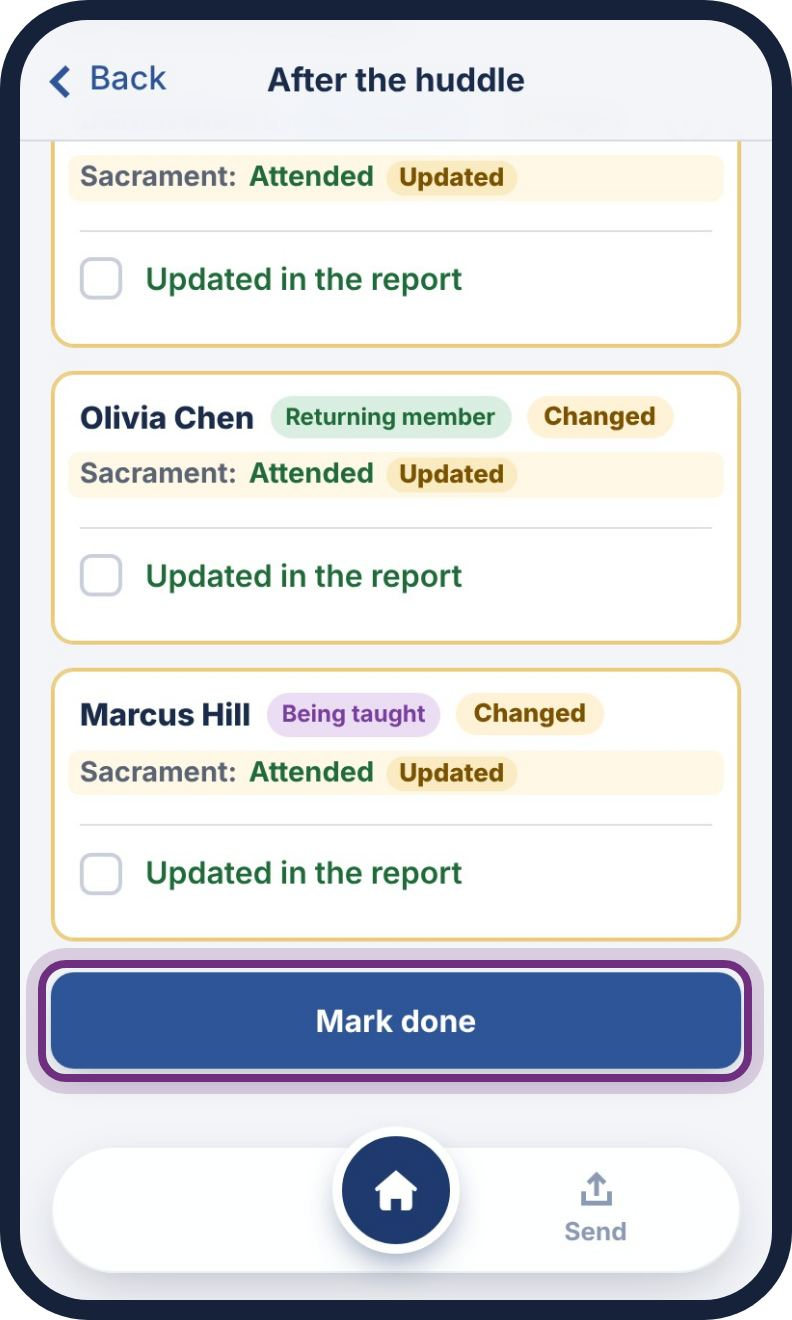
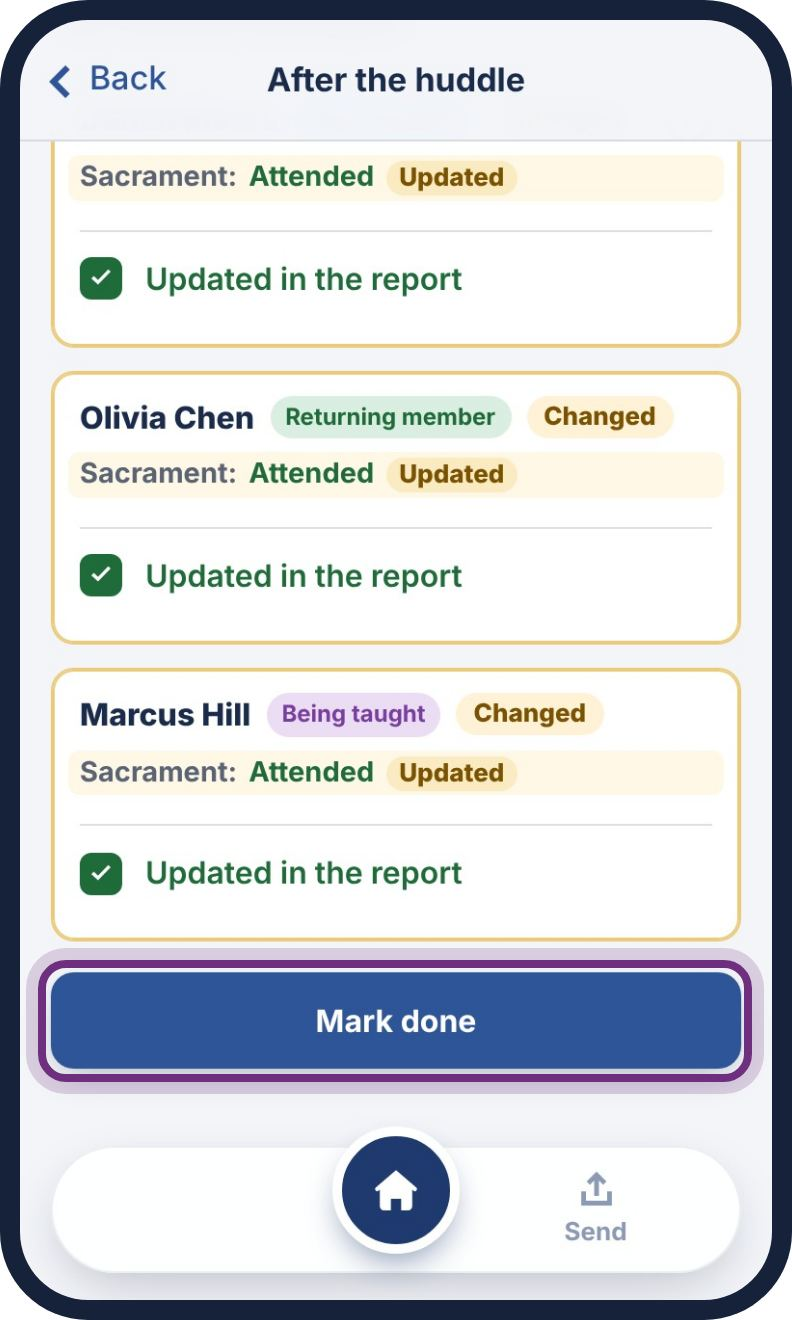
Tests follow the plainer week; slides remade
Claude-Session: https://claude.ai/code/session_01PW98YcMvh8WynmxGN9Y5LD

Changed region(s): [[0.0909, 0.6212, 0.1515, 0.6833], [0.0909, 0.4038, 0.1515, 0.4659], [0.0909, 0.1864, 0.1515, 0.2485]]

diff --git a/test/twodoor.js b/test/twodoor.js
@@ -31,23 +31,23 @@ const OUT = 'test/out-twodoor'; fs.mkdirSync(OUT, { recursive: true });
     ok(!(await vis('#steps-home')) && !(await vis('#details-summary')) && !(await vis('.info-pair')), tag + ': no date, sections or details on the opening screen');
     ok(await vis('[data-action="help"]') && !(await vis('[data-action="load-other"]')) && !(await vis('.clear-link')) && !(await vis('[data-action="tips"]')) && (await p.textContent('.top-buttons .help-link')).trim() === 'Help & training', tag + ': Help & training is at the top; Load and Erase are inside it (Settings); Tips is not');
     ok(await noOverflow(), tag + ': opening screen fits the phone');
-    ok(await vis('#before-box') && await vis('#after-box') && (await p.textContent('h1')).trim() === 'One by One' && (await p.textContent('.title-sub')).trim() === '“Joyfully gathering Israel one by one in Christ”', tag + ': title is Weekly Ward Mission Process, with the two Covenant Path Report boxes');
+    ok(await vis('#before-box') && await vis('#after-box') && (await p.textContent('h1')).trim() === 'Huddle' && /One by One · “Joyfully gathering Israel one by one in Christ”/.test((await p.textContent('.title-sub')).trim()), tag + ': titled Huddle, with the vision as a small line, and the two Covenant Path Report boxes');
     ok((await p.textContent('.app-name')).trim() === 'Huddle' && await p.title() === 'Huddle', tag + ': the app is named Huddle, on the page and in the browser');
     ok(await p.locator('#start-home input[type="checkbox"]').count() === 0 && await p.evaluate(() => ['before', 'after'].every(w => document.querySelector('#' + w + '-box').tagName === 'BUTTON')) && !(await vis('#before-box .tl-check')), tag + ': the two boxes have no check box to tap; each is one button');
     ok((await p.textContent('.fine-notes')).trim() === 'Not an official app of The Church of Jesus Christ of Latter-day Saints.' && !(await vis('.fine-notes .credit-name')), tag + ': the opening screen ends with the one disclaimer line');
     // Hand off holds both ends of a handoff; the quiet link under the steps is for a PDF only
-    await p.click('.actionbar [data-action="handoff"]'); await p.waitForSelector('#handoff-sheet:not([hidden])');
+    await p.click('.handoff-line [data-action="handoff"]'); await p.waitForSelector('#handoff-sheet:not([hidden])');
     ok(await p.locator('#handoff-sheet .nav-row').count() === 2 && (await p.textContent('#handoff-send')).includes('Send a handoff') && (await p.textContent('#handoff-receive')).includes('Receive a handoff') && await noOverflow(), tag + ': Hand off offers Send a handoff and Receive a handoff');
     await p.click('[data-action="close-handoff"]'); await p.waitForTimeout(200);
     ok(await p.isHidden('#handoff-sheet'), tag + ': Cancel closes it');
     await p.click('[data-action="help"]'); await p.waitForSelector('#help-sheet:not([hidden])'); await p.waitForTimeout(250);
-    ok((await p.$$eval('#help-sheet .help-list >> nth=3 >> .step-title', t => t.map(x => x.textContent).join('|'))) === 'Appearance|Load from a PDF|Erase everything and start over' && await noOverflow(), tag + ': Settings offers Appearance, Load from a PDF and Erase everything');
+    ok((await p.$$eval('#help-sheet .help-list >> nth=3 >> .step-title', t => t.map(x => x.textContent).join('|'))) === 'Appearance|Load a huddle report|Erase everything and start over' && await noOverflow(), tag + ': Settings offers Appearance, Load a huddle report and Erase everything');
     const [chooser] = await Promise.all([p.waitForEvent('filechooser'), p.click('#help-sheet [data-action="load-other"]')]);
     ok(!!chooser && await p.locator('.overlay:not([hidden])').count() === 0, tag + ': Load from a PDF goes straight to choosing the file');
     // Each of the four steps opens a page of its own (none slides up as a sheet), and each page starts with one line saying what to do there
-    const pages = [['#before-box', '#bw-view', '#bw-view .page-intro', 'Before ward council', 'Open the Covenant Path Report in Member Tools and make this list match it: add or remove names so everyone is listed, and check off each person’s items that are done there.'],
+    const pages = [['#before-box', '#bw-view', '#bw-view .page-intro', 'Before Ward Council', 'Open the Covenant Path Report in Member Tools and make this list match it: add or remove names so everyone is listed, and check off each person’s items that are done there.'],
       ['.door-wc', '#wc-view', '#wc-intro', 'Ward Council', 'Add any upcoming opportunities to invite. Then identify focus names from the Covenant Path Report, the Part-Member Families list, or anyone else ward council feels to focus on.'],
-      ['.door-hd', '#steps-home', '#hd-intro', 'Huddle', 'Report back on the last huddle and take attendance. Review the opportunities to invite and make at least one action plan, then plan one assignment for each focus name: what, who and when.'],
+      ['.door-hd', '#steps-home', '#hd-intro', 'Huddle', 'Report back on the last huddle and take attendance. Review the opportunities to invite and plan at least one assignment, then plan one assignment for each focus name: what, who and when.'],
       ['#after-box', '#af-view', '#af-view .page-intro', 'After the huddle', 'Go back to the Covenant Path Report and update it with any new information. Then mark this done so you can send.']];
     const introTops = [];
     for (const [door, pageSel, introSel, title, text] of pages) {
@@ -65,10 +65,10 @@ const OUT = 'test/out-twodoor'; fs.mkdirSync(OUT, { recursive: true });
     const bwOpen = async (g, i) => { await p.click(`#before-list [data-action="open-person"][data-a="${g}"][data-b="${i}"]`); await p.waitForSelector('#person-view:not([hidden])'); await p.waitForTimeout(250); };
     const bwDone = async () => { await p.click('#person-card .person-done'); await p.waitForSelector('#bw-view:not([hidden])'); await p.waitForTimeout(300); };
     const daysAgo = n => { const d = new Date(); d.setDate(d.getDate() - n); return d.getFullYear() + '-' + String(d.getMonth() + 1).padStart(2, '0') + '-' + String(d.getDate()).padStart(2, '0'); };
-    ok((await p.textContent('#before-box .check-line')).trim() === 'Before ward council' && (await p.textContent('#before-sub')).trim() === 'Update each person from the Covenant Path Report', tag + ': the Before ward council box says what it covers');
+    ok((await p.textContent('#before-box .check-line')).trim() === 'Before Ward Council' && (await p.textContent('#before-sub')).trim() === 'Update each person from the Covenant Path Report', tag + ': the Before ward council box says what it covers');
     // The four steps are numbered, and each leads with its name
     ok((await p.$$eval('#start-home .cpr-step-k, #start-home .door-kicker', k => k.map(x => x.textContent.trim()).join('|'))) === 'Step 1|Step 2 · Who & What|Step 3 · How & When|Step 4', tag + ': the four steps are numbered 1 to 4, in order');
-    ok((await p.$$eval('#start-home .check-line, #start-home .door-title', k => k.map(x => x.textContent.trim()).join('|'))) === 'Before ward council|Ward council|Huddle|After the huddle' && (await p.textContent('#after-sub')).trim() === 'Update the Covenant Path Report, then send', tag + ': each step leads with its name: Before ward council, Ward council, Huddle, After the huddle');
+    ok((await p.$$eval('#start-home .check-line, #start-home .door-title', k => k.map(x => x.textContent.trim()).join('|'))) === 'Before Ward Council|Ward Council|Huddle|After the huddle' && (await p.textContent('#after-sub')).trim() === 'Update the Covenant Path Report, then send', tag + ': each step leads with its name: Before ward council, Ward council, Huddle, After the huddle');
     // Return and Report with nothing to report: one line, not blank forms
     await p.click('.door-hd'); await p.waitForTimeout(200); await p.click('[data-action="open-step"][data-a="rr"]'); await p.waitForTimeout(250);
     ok(await p.locator('#rr-list .rr-card').count() === 0 && (await p.textContent('#rr-list .rr-none')).trim() === 'Nothing to report yet. After your first huddle, its assignments show up here.' && !(await vis('[data-step="rr"] .section-head')) && await vis('[data-action="add-rr"]'), tag + ': before the first huddle, Return and Report is one line saying there is nothing to report yet');
@@ -82,7 +82,7 @@ const OUT = 'test/out-twodoor'; fs.mkdirSync(OUT, { recursive: true });
     ok(await p.locator('#rr-list .rr-card').count() === 0 && await vis('#rr-list .rr-none'), tag + ': removing the only item brings the line back');
     await p.click('[data-action="steps-home"]'); await p.waitForTimeout(250); await p.click('[data-action="go-start"]'); await p.waitForTimeout(300);
     await p.click('[data-action="open-before"]'); await p.waitForSelector('#bw-view:not([hidden])'); await p.waitForTimeout(300);
-    ok(await vis('#mode-bar') && (await p.textContent('#mode-title')) === 'Before ward council' && await vis('.actionbar .nav-home') && !(await vis('#start-home')) && await p.locator('.overlay:not([hidden])').count() === 0, tag + ': Before ward council opens as its own screen with Back, not a sheet');
+    ok(await vis('#mode-bar') && (await p.textContent('#mode-title')) === 'Before Ward Council' && await vis('.actionbar .nav-home') && !(await vis('#start-home')) && await p.locator('.overlay:not([hidden])').count() === 0, tag + ': Before ward council opens as its own screen with Back, not a sheet');
     ok(await vis('#bw-view [data-tools-link]') && await p.locator('#before-list .list-panel.rows').count() === 3 && await p.locator('#before-list [data-action="add-person"]').count() === 3 && !(await p.textContent('#bw-view')).includes('Focus name 1'), tag + ': it shows the report link and the three Covenant Path lists, each ending in Add a name (no focus names)');
     const bwIntro = await p.textContent('.bw-intro');
     ok(['Covenant Path Report', 'Member Tools', 'add or remove names', 'check off'].every(w => bwIntro.includes(w)), tag + ': it says to make the list match the report and check off what’s done');
@@ -152,7 +152,7 @@ const OUT = 'test/out-twodoor'; fs.mkdirSync(OUT, { recursive: true });
     const rowText = async id => (await p.textContent(`[data-action="open-wc-list"][data-a="${id}"]`)).replace(/\s+/g, ' ');
     const tnText = async () => (await p.textContent('#wc-step-tn')).replace(/\s+/g, ' ');
     ok(await p.locator('#wc-rows .wc-row').count() === 2 && (await rowText('cp')).includes('Covenant Path Report') && (await rowText('fn')).includes('Opportunities to invite') && (await tnText()).includes('Focus names') && !(await vis('[data-action="open-wc-list"][data-a="tn"]')) && !(await vis('[data-action="open-wc-list"][data-a="mr"]')) && await p.locator('#wc-list .person-row, #wc-list .wc-card').count() === 0, tag + ': Ward Council shows Opportunities to invite, the Covenant Path Report and the focus names card (no Missionary Referrals, no Focus names list)');
-    ok(await p.evaluate(() => { const ids = Array.from(document.querySelectorAll('#wc-rows > *')).map(e => e.id), box = Array.from(document.querySelectorAll('#wc-find > *')).map(e => e.id).filter(Boolean); return ids.join('|') === 'wc-step-fn|wc-find|wc-step-tn' && box.join('|') === 'wc-find-k|wc-step-cp|wc-pmf'; }) && /Find your focus names/i.test(await p.textContent('#wc-find-k')), tag + ': in order: Opportunities to invite, then one Find your focus names box holding the Covenant Path Report and Part-Member Families, then Focus names');
+    ok(await p.evaluate(() => { const ids = Array.from(document.querySelectorAll('#wc-rows > *')).map(e => e.id), box = Array.from(document.querySelectorAll('#wc-find [id]')).map(e => e.id); return ids.join('|') === 'wc-step-fn|wc-find|wc-step-tn' && box.join('|') === 'wc-find-k|wc-find-tick|wc-step-cp|wc-pmf'; }) && /Find your focus names/i.test(await p.textContent('#wc-find-k')), tag + ': in order: Opportunities to invite, then one Find your focus names box holding the Covenant Path Report and Part-Member Families, then Focus names');
     ok(!(await p.$('#wc-note')) && await p.locator('#wc-view .help-warning').count() === 0 && await p.evaluate(() => !!document.querySelector('#wc-find #wc-pmf')), tag + ': no confidential line on Ward Council');
     ok(await p.evaluate(() => document.querySelector('#wc-step-cp').classList.contains('steps-list') && document.querySelector('#steps-this').classList.contains('steps-list')), tag + ': ward council’s rows and the huddle’s rows are the same kind of list');
     ok((await rowText('cp')).includes('1 person · 1 needs a next ordinance') && (await tnText()).includes('Choose up to three from the lists above.'), tag + ': each card has a status: ' + await rowText('cp'));
@@ -187,7 +187,7 @@ const OUT = 'test/out-twodoor'; fs.mkdirSync(OUT, { recursive: true });
     await p.click('[data-action="open-wc-list"][data-a="cp"]'); await p.waitForTimeout(300);
     await openPerson('#wc-list', 'nm', 0);
     const labels = await p.$$eval('#person-card .wc-card label', ls => ls.map(l => l.childNodes[0].textContent.trim()));
-    ok(labels.join('|') === 'Baptism date|Next ordinance' && await p.locator('#person-card .person-head-input').count() === 1, tag + ': only ward council’s fields (no What will help): ' + labels.join('|'));
+    ok(labels.join('|') === 'Next ordinance' && /Baptized/.test(await p.textContent('#person-card .wc-bap')) && await p.locator('#person-card .person-head-input').count() === 1, tag + ': only ward council’s fields (no What will help; the baptism date is a plain line): ' + labels.join('|'));
     ok(await p.locator('#person-card [data-bind$=".action"], #person-card [data-bind$=".assigned"], #person-card [data-bind$=".sac"], #person-card [data-bind$=".need"]').count() === 0, tag + ': no action, assigned, sacrament or What will help fields here');
     await fill('cp.nm.0.ordinance', 'Temple baptisms');
     await back();
@@ -195,11 +195,11 @@ const OUT = 'test/out-twodoor'; fs.mkdirSync(OUT, { recursive: true });
     ok(await noOverflow(), tag + ': ward council fits the phone');
     await p.screenshot({ path: `${OUT}/${tag}-wc-list.png`, fullPage: true });
     await back();
-    ok((await rowText('cp')).includes('3 people · 2 need a next ordinance') && await p.locator('[data-action="open-wc-list"][data-a="cp"] .wc-done-tick').count() === 1 && await p.locator('[data-action="open-wc-list"][data-a="cp"] .step-status.warn').count() === 0, tag + ': the card counts people; with a focus name chosen it has its green check, and no orange');
+    ok((await rowText('cp')).includes('3 people · 2 need a next ordinance') && await vis('#wc-find-tick') && await p.locator('[data-action="open-wc-list"][data-a="cp"] .wc-done-tick').count() === 0 && await p.locator('[data-action="open-wc-list"][data-a="cp"] .step-status.warn').count() === 0, tag + ': the row counts people with no orange; with a focus name chosen the Find your focus names box has its check: ' + await rowText('cp') + ' / ' + await vis('#wc-find-tick'));
     // Find New People to Teach and Missionary Referrals: the same sections the Huddle has
     ok((await rowText('fn')).includes('None listed yet') && !(await p.$('[data-action="open-wc-list"][data-a="fn"] .warn')), tag + ': Opportunities to invite shows its status in ward council, with no warning');
     await p.click('[data-action="open-wc-list"][data-a="fn"]'); await p.waitForTimeout(300);
-    ok((await p.textContent('#step-title')) === 'Opportunities to invite' && await vis('#fn-list [data-action="add-opp"]') && !(await vis('#step-done-btn')) && !(await vis('#step-prev')) && /Covenant Path Report/.test(await p.textContent('#step-next')) && !(await vis('#wc-rows')) && await noOverflow(), tag + ': Opportunities to invite opens in ward council (no Mark section done)');
+    ok((await p.textContent('#step-title')) === 'Opportunities to invite' && await vis('#fn-list [data-action="add-opp"]') && (await p.textContent('#step-done-btn')).trim() === 'No upcoming events' && !(await vis('#step-prev')) && /Covenant Path Report/.test(await p.textContent('#step-next')) && !(await vis('#wc-rows')) && await noOverflow(), tag + ': Opportunities to invite opens in ward council, with No upcoming events at the bottom');
     await p.click('[data-action="add-opp"]'); await fill('find.opps.0.title', 'Ward party'); await back();
     ok((await p.textContent('#fn-list')).includes('Ward party') && await vis('#fn-list [data-action="open-person"][data-a="opp"]'), tag + ': the opportunity opens on its own screen, and Back returns to the list with its row');
     await back();
@@ -217,7 +217,7 @@ const OUT = 'test/out-twodoor'; fs.mkdirSync(OUT, { recursive: true });
     ok((await p.textContent('#step-title')) === 'Covenant Path Report' && await vis('#step-title') && !(await vis('#h-plan')), tag + ': the section is titled Covenant Path Report, beside Back, not in the page');
     ok(await p.locator('.cp-reminder').count() === 0 && !(await p.textContent('[data-step="cp"]')).includes('Reminder:') && await vis('[data-step="cp"] .btn-tools'), tag + ': no reminder box on the Covenant Path page; the report button stays');
     ok((await rowNames('#cp-groups', 'nm')).join('|') === 'Daniel Rivera|Olivia Chen' && await p.locator('#cp-groups input, #cp-groups textarea').count() === 0, tag + ': the huddle lists the names from Ward council as rows, with no fields open');
-    ok(await rowSub('#cp-groups', 'nm', 0) === 'Needs an action item' && await p.locator('#cp-groups [data-group="nm"] .person-row .step-status.warn').count() === 2, tag + ': a name with no action item says so in orange');
+    ok(await rowSub('#cp-groups', 'nm', 0) === 'Needs an assignment' && await p.locator('#cp-groups [data-group="nm"] .person-row .step-status.warn').count() === 2, tag + ': a name with no assignment says so in orange');
     ok(await p.locator('#cp-groups [data-group="bt"] [data-action="cp-none"]').count() === 1 && await p.locator('#cp-groups [data-group="nm"] [data-action="cp-none"]').count() === 0, tag + ': an empty list offers Confirm none this week; a list with names doesn’t');
     await p.click('#cp-groups [data-group="bt"] [data-action="cp-none"]'); await p.waitForTimeout(200);
     ok(await p.locator('#cp-groups [data-group="bt"] .list-empty.confirmed').count() === 1 && (await p.textContent('#cp-groups [data-group="bt"] .list-count')) === 'None this week', tag + ': Confirm none this week marks the empty list as reviewed');
@@ -251,7 +251,7 @@ const OUT = 'test/out-twodoor'; fs.mkdirSync(OUT, { recursive: true });
     ok((await p.textContent('#fn-list [data-a="opp"]')).includes('Ward party') && await vis('#step-foot'), tag + ': the opportunity added in ward council is in the Huddle’s Opportunities to invite');
     await back();
     await p.screenshot({ path: `${OUT}/${tag}-huddle.png` });
-    ok(await vis('.actionbar .btn-handoff') && await vis('.actionbar .nav-send') && await vis('.actionbar .nav-home') && !(await vis('[data-action="help"]')) && await vis('#hd-hero [data-action="tips"]'), tag + ': Huddle screen has Tips in its header card, the bottom bar (Hand off, Home, Send), no How to use');
+    ok(!(await vis('.actionbar .btn-handoff')) && await vis('.actionbar .nav-send') && await vis('.actionbar .nav-home') && !(await vis('[data-action="help"]')) && await vis('#hd-hero [data-action="tips"]'), tag + ': Huddle screen has Tips in its header card, the bottom bar (Home, Send), no How to use');
     ok(!(await vis('.fine-notes')) && !(await p.$('#hd-note')), tag + ': no disclaimer on the Huddle screen, and no confidential line under its step card (it sits under the notes)');
     ok(await p.locator('#steps-home .step-row').count() === 5 && await p.locator('#steps-home .step-row .step-num').count() === 0 && await p.locator('#steps-home .nav-row .step-chev').count() === 5, tag + ': the five sections are plain rows with a chevron (a check only once done)');
     // Send lives on the opening screen and waits for the after-huddle check
@@ -266,6 +266,7 @@ const OUT = 'test/out-twodoor'; fs.mkdirSync(OUT, { recursive: true });
     ok(!(await p.textContent('#after-list')).includes('Grace Thompson'), tag + ': focus names aren’t in the after-huddle list');
     ok(await noOverflow(), tag + ': the after-huddle list fits the phone');
     await p.screenshot({ path: `${OUT}/${tag}-afterlist.png` });
+    for (let k = 0; k < 12 && await p.$('[data-action="after-upd"][aria-checked="false"]'); k++) { await p.click('[data-action="after-upd"][aria-checked="false"]'); await p.waitForTimeout(150); } // tick each changed name (Nov 19, 2026)
     ok((await p.textContent('#after-done-btn')).trim() === 'Mark done' && !(await p.getAttribute('#after-done-btn', 'class')).includes('is-done'), tag + ': Mark done is pinned on the screen');
     await p.click('[data-action="after-done"]'); await p.waitForSelector('#start-home:not([hidden])'); await p.waitForTimeout(300);
     ok(await isDone('after') && await vis('#after-box .tl-check'), tag + ': marking it done returns to the opening screen and turns the box green');
@@ -298,18 +299,8 @@ const OUT = 'test/out-twodoor'; fs.mkdirSync(OUT, { recursive: true });
     ok((await rowText('fn')).includes('Ward party'), tag + ': after sending, the opportunity (no date) is still listed for the next huddle');
     await p.click('[data-action="open-wc-list"][data-a="cp"]'); await p.waitForTimeout(250);
     await openPerson('#wc-list', 'nm', 0);
-    const last = p.locator('#person-card .wc-card .wc-last:not(.wc-details)');
-    ok((await last.textContent()).includes('Drive him to the temple') && (await last.textContent()).includes('Bro. Patel') && (await last.locator('.wc-status').textContent()) === 'Pending', tag + ': the name shows last huddle’s assignment, Pending');
-    ok(await p.locator('#person-card [data-action="happened"], #person-card .wc-last button, #person-card .wc-last input').count() === 0, tag + ': the status can’t be changed in Ward council');
-    // The mirror of the Huddle's screen: ward council's half on top and highlighted, the huddle's half closed with Edit
-    const hsum = async () => (await p.locator('#person-card .hd-summary').textContent()).replace(/\s+/g, ' ');
-    ok((await hsum()).includes('Sacrament') && (await hsum()).includes('Not marked at the last huddle') && (await hsum()).includes('Temple') && (await hsum()).includes('Action item') && (await hsum()).includes('None yet') && (await p.textContent('#person-card .hd-summary .zone-toggle')) === 'Edit', tag + ': the huddle’s half shows closed, as a summary with Edit: ' + await hsum());
-    ok(await p.evaluate(() => { const c = document.querySelector('#person-card .card'), w = c.querySelector('.zone-wc-wrap'), s = c.querySelector('.hd-summary'); return !!(w.compareDocumentPosition(s) & Node.DOCUMENT_POSITION_FOLLOWING) && getComputedStyle(w).backgroundColor !== 'rgba(0, 0, 0, 0)'; }) && await p.locator('#person-card [data-bind$=".action"], #person-card [data-bind$=".sac"]').count() === 0, tag + ': ward council’s half is on top and highlighted; the huddle’s fields stay closed');
-    await p.click('#person-card [data-action="hd-edit-toggle"]'); await p.waitForTimeout(200);
-    ok(await vis('#person-card .zone-hd-wrap [data-bind="cp.nm.0.action"]') && await vis('#person-card .sac-toggle') && await vis('#person-card .temple-box') && (await p.textContent('#person-card .zone-hd-wrap .zone-toggle')) === 'Hide' && await noOverflow(), tag + ': Edit opens the huddle’s fields in ward council: sacrament, temple, action item, who and when');
-    await fill('cp.nm.0.action', 'Invite to the temple trip'); await fill('cp.nm.0.assigned', 'Sis. Lee');
-    await p.click('#person-card [data-action="hd-edit-toggle"]'); await p.waitForTimeout(200);
-    ok((await hsum()).includes('Invite to the temple trip · Sis. Lee') && await p.locator('#person-card [data-bind$=".action"]').count() === 0, tag + ': Hide condenses it again, with the action item showing');
+    // Ward Council's screen is plain (Nov 19, 2026): no last huddle's assignment and no Huddle half
+    ok(await p.locator('#person-card .wc-last, #person-card .hd-summary, #person-card .zone-hd-wrap, #person-card [data-action="happened"]').count() === 0 && await vis('#person-card .ns-head'), tag + ': no Huddle box or last assignment on Ward Council’s screen; next steps are there instead');
     await p.screenshot({ path: `${OUT}/${tag}-wc-last.png`, fullPage: true });
     await back(); await openPerson('#wc-list', 'nm', 1);
     ok(await p.locator('#person-card .wc-last:not(.wc-details)').count() === 0, tag + ': a name with no assignment shows no assignment line');
@@ -320,7 +311,6 @@ const OUT = 'test/out-twodoor'; fs.mkdirSync(OUT, { recursive: true });
     await p.click('[data-action="happened"][data-a="0"][data-b="Yes"]');
     await p.goBack(); await p.waitForTimeout(300); await p.goBack(); await p.waitForTimeout(300); await p.click('.door-wc'); await p.click('[data-action="open-wc-list"][data-a="cp"]'); await p.waitForTimeout(250);
     await openPerson('#wc-list', 'nm', 0);
-    ok((await p.textContent('#person-card .wc-status')) === 'Done', tag + ': once the huddle marks it Yes, Ward council shows Done');
     await p.goBack(); await p.waitForTimeout(300);
     ok(await vis('#wc-list .person-row') && !(await vis('#person-view')), tag + ': the phone’s Back goes from a person to the list');
     await p.goBack(); await p.waitForTimeout(300);

diff --git a/test/live.js b/test/live.js
@@ -17,7 +17,7 @@ const daysAgo = n => { const d = new Date(); d.setDate(d.getDate() - n); return 
   const p = await ctx.newPage(); const errs = []; p.on('pageerror', e => errs.push(e.message));
   const fill = (k, v) => p.fill(`[data-bind="${k}"]`, v);
   const home = async () => { if (await p.isVisible('[data-action="steps-home"]')) await p.click('[data-action="steps-home"]'); await p.waitForTimeout(150); };
-  const open = async id => { await home(); await p.click(`[data-action="open-step"][data-a="${id}"]`); };
+  const open = async id => { await home(); if (!(await p.isVisible(`[data-action="open-step"][data-a="${id}"]`)) && await p.isVisible('.door-hd')) { await p.click('.door-hd'); await p.waitForTimeout(250); } await p.click(`[data-action="open-step"][data-a="${id}"]`); }; // (Sent's Done goes to the opening screen)
   const blur = () => p.evaluate(() => document.activeElement && document.activeElement.blur());
   await p.goto('http://127.0.0.1:8765/#huddle'); await p.waitForSelector('.chip', { state: 'attached' }); await p.click('[data-action="dismiss-install"]').catch(() => {});
 
@@ -35,7 +35,7 @@ const daysAgo = n => { const d = new Date(); d.setDate(d.getDate() - n); return 
   ok((await p.textContent('#meeting-date .md-text')) === longD(daysAgo(0)), 'the huddle date is today without setting it: ' + (await p.textContent('#meeting-date .md-text')));
   ok(await p.evaluate(() => { const i = document.querySelector('#meeting-date input[type=date]'); return !!i && i.id === 'date'; }) && !(await p.evaluate(() => !!document.querySelector('#details-full input[type=date]'))), 'the date is set at the top, not in Huddle Attendees');
   ok((await rrRow()).startsWith('Nothing yet. After your first huddle'), 'Return and Report row before the first send: ' + await rrRow());
-  ok(!(await p.$('#band-rr')) && (await p.textContent('#band-plan')).trim() === 'Huddle action plan', 'no heading over Return and Report; Huddle action plan over the plan');
+  ok(!(await p.$('#band-rr')) && (await p.textContent('#band-plan')).trim() === 'This week’s plan', 'no heading over Return and Report; This week’s plan over the plan');
   const today = daysAgo(0);
   await fill('date', today); await p.waitForTimeout(100);
   ok((await p.textContent('#meeting-date .md-text')) === longD(today), 'changing the date updates the label');
@@ -67,7 +67,7 @@ const daysAgo = n => { const d = new Date(); d.setDate(d.getDate() - n); return 
 
   // Send closes the huddle and sets up the next one
   const next = today;
-  ok((await p.textContent('#confirm-title')).trim() === 'Sent successfully' && (await p.textContent('#confirm-body')).includes('set for your next huddle') && (await p.textContent('#confirm-body')).includes('assignments are now in Return and Report'), 'Sent successfully: set for the next huddle, no dates');
+  ok((await p.textContent('#confirm-title')).trim() === 'Sent' && (await p.textContent('#confirm-body')).includes('Next week starts with Before Ward Council') && (await p.textContent('#confirm-body')).includes('assignments are now in Return and Report'), 'Sent: next week starts with Before Ward Council, no dates');
   ok((await p.textContent('#confirm-secondary')).trim() === 'Undo', 'Undo is offered right after sending');
   await p.screenshot({ path: `${OUT}/sent.png` });
   await p.click('#confirm-primary'); await p.waitForTimeout(250);
@@ -75,7 +75,7 @@ const daysAgo = n => { const d = new Date(); d.setDate(d.getDate() - n); return 
   ok(await p.isVisible('#sent-line') && (await p.textContent('#sent-line-text')).trim() === '✓ ' + md(today) + ' huddle sent' && await p.isVisible('[data-action="share-last"]'), 'under the date: ✓ ' + md(today) + ' huddle sent · Share again');
   ok((await p.textContent('#send-label')).trim() === 'Send', 'Send stays Send');
   ok((await rrRow()) === '0 of 3 marked', 'home row: ' + await rrRow());
-  ok((await p.textContent('#band-plan')).trim() === 'Huddle action plan', 'groups have no dates: ' + await p.textContent('#band-plan'));
+  ok((await p.textContent('#band-plan')).trim() === 'This week’s plan', 'groups have no dates: ' + await p.textContent('#band-plan'));
   ok((await p.textContent('#details-sub')).includes('Attendance not taken'), 'attendance cleared');
   ok(await p.locator('.step-row.done').count() === 0, 'section checks cleared');
   await p.locator('header.top').screenshot({ path: `${OUT}/header-next.png` });
@@ -114,7 +114,7 @@ const daysAgo = n => { const d = new Date(); d.setDate(d.getDate() - n); return 
 
   // Undo right after sending puts the huddle back
   await sendNow();
-  ok((await p.textContent('#confirm-body')).includes('set for your next huddle'), 'the next send says the same');
+  ok((await p.textContent('#confirm-body')).includes('Next week starts with Before Ward Council'), 'the next send says the same');
   await p.click('#confirm-secondary'); await p.waitForTimeout(300);
   ok(await p.inputValue('#date') === moved && (await rrRow()).includes('1 of 3 marked') && (await p.textContent('#sent-line-text')).includes(md(today) + ' huddle sent'), 'Undo puts the huddle back, and the earlier sent copy');
   ok((await p.textContent('#toast')).includes('Your huddle is back'), 'Undo says so');

diff --git a/test/fields.js b/test/fields.js
@@ -32,7 +32,7 @@ const txt = f => execFileSync('pdftotext', ['-raw', f, '-']).toString();
   const p = await ctx.newPage(); const errs = []; p.on('pageerror', e => errs.push(e.message));
   await p.goto('http://127.0.0.1:8765/#huddle'); await p.waitForSelector('.chip'); await p.click('[data-action="dismiss-install"]');
   const labels = await p.$$eval('[data-group="nm"] .card .field', fs => fs.map(f => f.firstChild.textContent.trim()));
-  ok('card fields in order', labels.join('|') === 'Baptism date|Next ordinance|What will help|Action item|Assigned to|When|Huddle notes', labels.join('|'));
+  ok('card fields in order', labels.join('|') === 'Baptism date|Next ordinance|What will help|Assignment|Assigned to|When|Huddle notes', labels.join('|'));
   ok('Attended sacrament checkbox on every name card', (await p.$$('.card .sac-toggle')).length === 6);
   ok('action placeholder reworded', (await p.getAttribute('[data-bind="cp.nm.0.action"]', 'placeholder')) === 'What might you do to assist them in being worthy and prepared for their next ordinance?');
   await p.fill('#ward', 'Riverton 5th Ward'); await p.fill('#date', '2026-11-01');
@@ -51,7 +51,7 @@ const txt = f => execFileSync('pdftotext', ['-raw', f, '-']).toString();
   await p.evaluate(async () => { const settle = () => new Promise(r => setTimeout(r, 150)); const m = document.querySelector('#mode-bar'), g = m && !m.hidden && m.querySelector('[data-action="go-start"]'); if (g) { g.click(); await settle(); } const ab = document.querySelector('#after-box'); if (ab && !ab.classList.contains('done')) { document.querySelector('[data-action="open-after"]').click(); await settle(); document.querySelector('[data-action="after-done"]').click(); await settle(); } }).then(() => p.click('.actionbar [data-action="send"]')).then(() => sendAnyway(p)); await p.waitForSelector('#share-btn:not([disabled])');
   const [d1] = await Promise.all([p.waitForEvent('download'), p.click('#share-btn')]); await d1.saveAs(OUT + '/w1.pdf');
   const t1 = txt(OUT + '/w1.pdf').replace(/\s+/g, ' ');
-  ok('PDF labels each part of a person\'s block', /Attended sacrament meeting/.test(t1) && /Next ordinance Temple recommend/.test(t1) && /What will help A friend in Relief/.test(t1) && /Action item Invite to RS dinner Sister Jensen · Thu(rsday|, [A-Z][a-z]{2} \d{1,2})/.test(t1), t1.slice(t1.indexOf('Maria'), t1.indexOf('Maria') + 200));
+  ok('PDF labels each part of a person\'s block', /Attended sacrament meeting/.test(t1) && /Next ordinance Temple recommend/.test(t1) && /What will help A friend in Relief/.test(t1) && /Assignment Invite to RS dinner Sister Jensen · Thu(rsday|, [A-Z][a-z]{2} \d{1,2})/.test(t1), t1.slice(t1.indexOf('Maria'), t1.indexOf('Maria') + 200));
   ok('no sacrament line for someone who was not marked', !/Sam Ortiz Attended sacrament meeting/.test(t1) && /Ana Ruiz Attended sacrament meeting/.test(t1));
   ok('PDF shows ordinance and need', t1.includes('Temple recommend') && t1.replace(/\s+/g, ' ').includes('A friend in Relief') && t1.includes('Temple prep'));
   execFileSync('pdftoppm', ['-r', '90', '-png', '-singlefile', OUT + '/w1.pdf', OUT + '/w1']);

diff --git a/test/people.js b/test/people.js
@@ -85,9 +85,9 @@ async function sendAnyway(pg) { await pg.waitForTimeout(150); if (await pg.isVis
     await p.evaluate(async () => { const settle = () => new Promise(r => setTimeout(r, 150)); const m = document.querySelector('#mode-bar'), g = m && !m.hidden && m.querySelector('[data-action="go-start"]'); if (g) { g.click(); await settle(); } const ab = document.querySelector('#after-box'); if (ab && !ab.classList.contains('done')) { document.querySelector('[data-action="open-after"]').click(); await settle(); document.querySelector('[data-action="after-done"]').click(); await settle(); } }).then(() => p.click('.actionbar [data-action="send"]')).then(() => sendAnyway(p)); await p.waitForSelector('#share-btn:not([disabled])');
     await p.click('#share-btn');
     await p.waitForSelector('#confirm-sheet:not([hidden])');
-    ok((await p.textContent('#confirm-title')).trim() === 'Sent successfully', 'sent popup title');
+    ok((await p.textContent('#confirm-title')).trim() === 'Sent', 'sent popup title');
     ok(await p.isVisible('#confirm-sheet .ok-icon') && !(await p.isVisible('#confirm-sheet .warn-icon')), 'green check, no warning icon');
-    ok((await p.textContent('#confirm-sheet')).includes('set for your next huddle') && await p.isVisible('#confirm-secondary') && (await p.textContent('#confirm-secondary')).trim() === 'Undo', 'sent popup: next huddle is set up, with Undo');
+    ok((await p.textContent('#confirm-sheet')).includes('Next week starts with Before Ward Council') && await p.isVisible('#confirm-secondary') && (await p.textContent('#confirm-secondary')).trim() === 'Undo', 'sent popup: next huddle is set up, with Undo');
     await p.screenshot({ path: `${OUT}/${tag}-sent.png` });
     await p.click('#confirm-primary');
     ok(await p.isVisible('#sent-line') && (await p.textContent('#sent-line')).includes('huddle sent') && await p.isVisible('[data-action="share-last"]'), 'shows the huddle was sent, with Share again');

diff --git a/test/zones.js b/test/zones.js
@@ -47,7 +47,7 @@ const res = []; const ok = (l, c, x) => { res.push(c); console.log((c ? 'PASS ' 
   await p.evaluate(async () => { const settle = () => new Promise(r => setTimeout(r, 150)); const m = document.querySelector('#mode-bar'), g = m && !m.hidden && m.querySelector('[data-action="go-start"]'); if (g) { g.click(); await settle(); } const ab = document.querySelector('#after-box'); if (ab && !ab.classList.contains('done')) { document.querySelector('[data-action="open-after"]').click(); await settle(); document.querySelector('[data-action="after-done"]').click(); await settle(); } }).then(() => p.click('.actionbar [data-action="send"]')).then(() => sendAnyway(p)); await p.waitForSelector('#share-btn:not([disabled])');
   const [d1] = await Promise.all([p.waitForEvent('download'), p.click('#share-btn')]); await d1.saveAs(OUT + '/w1.pdf');
   const t1 = execFileSync('pdftotext', ['-raw', OUT + '/w1.pdf', '-']).toString().replace(/\s+/g, ' ');
-  ok('PDF has one block per person: needs, then the action item', /Marcus Bell What will help Friends at church (Next steps .*?)?Action item Visit/.test(t1), t1.slice(t1.indexOf('Marcus'), t1.indexOf('Marcus') + 160));
+  ok('PDF has one block per person: needs, then the assignment', /Marcus Bell What will help Friends at church (Next steps .*?)?Assignment Visit/.test(t1), t1.slice(t1.indexOf('Marcus'), t1.indexOf('Marcus') + 160));
   ok('PDF has no Who/What/How/When boxes or table labels', !/WHO & WHAT|HOW & WHEN|Huddles decide|ATTENDED|ASSIGNED/.test(t1));
   ok('PDF shows the huddle note on its own line', t1.includes('Huddle notes Rides on Sunday'));
   execFileSync('pdftoppm', ['-r', '90', '-png', '-singlefile', OUT + '/w1.pdf', OUT + '/w1']);

diff --git a/app.js b/app.js
@@ -454,7 +454,7 @@
   var infoOpen = {};
   var TEMPLE_WHY = 'The goal: every new member performs baptisms for the dead within 30 days of being baptized. The count starts at their baptism date.';
   function infoBtn(key, label) {
-    return h('button', { type: 'button', class: 'info-i', 'data-action': 'info', 'data-a': key, 'aria-expanded': infoOpen[key] ? 'true' : 'false', 'aria-label': label || 'What is this?' }, ['i']);
+    return h('button', { type: 'button', class: 'info-i', 'data-action': 'info', 'data-a': key, 'aria-expanded': infoOpen[key] ? 'true' : 'false', 'aria-label': label || 'What is this?' }); // the "i" is drawn by CSS, so it isn't read as part of a heading's text
   }
   function infoText(key, text) { return h('p', { class: 'info-text full', 'data-info': key, hidden: !infoOpen[key], text: text }); }
   function toggleInfo(key) { setInfo(key, !infoOpen[key]); }
@@ -2292,7 +2292,7 @@
       next ? h('span', { class: 'up-next wc-up-next', 'aria-hidden': 'true', text: 'Up next' }) : null,
       h('span', { class: 'step-text' }, [
         h('span', { class: 'step-title', text: l.title }),
-        h('span', { class: 'step-status' + (st.warn && !done ? ' warn' : ''), text: st.text })
+        h('span', { class: 'step-status' + (st.warn && !done && !inBox ? ' warn' : ''), text: st.text }) // (in the box the focus names carry the warning)
       ]),
       done ? icon('check', 'wc-done-tick') : null,
       h('span', { class: 'step-chev', 'aria-hidden': 'true', text: '›' })

diff --git a/test/lively.js b/test/lively.js
@@ -60,6 +60,7 @@ const seed = {
     // Mark a section done: its check pops, the bar moves
     await p.click('[data-action="open-step"][data-a="sa"]'); await p.waitForTimeout(300);
     await p.click('[data-action="step-done"]'); await p.waitForTimeout(250);
+    if ((await view()) !== 'home') { await p.click('[data-action="steps-home"]'); await p.waitForTimeout(200); } // Mark done goes on to the next section now
     ok((await view()) === 'home' && await p.$eval('[data-action="open-step"][data-a="sa"] .step-num', e => e.classList.contains('pop')), dev + ': Sacrament attendance marked done: its check pops');
     await p.waitForTimeout(900);
     ok((await p.textContent('#hd-hero .hero-count')) === '3 of 5 sections done' && (await p.$eval('#hd-hero .hero-fill', e => e.style.width)) === '60%', dev + ': the bar moved to 3 of 5');

diff --git a/styles.css b/styles.css
@@ -1658,6 +1658,7 @@ body.gated { overflow: hidden; }
 /* The little "i" and what it shows */
 .info-i { flex: none; display: inline-flex; align-items: center; justify-content: center; width: 22px; height: 22px; margin-left: 6px; padding: 0; vertical-align: middle;
   border-radius: 50%; border: 1.5px solid currentColor; background: none; color: var(--accent); font: italic 700 13px/1 Georgia, 'Times New Roman', serif; cursor: pointer; opacity: .85; position: relative; }
+.info-i::before { content: 'i'; }
 .info-i::after { content: ''; position: absolute; inset: -11px; } /* a bigger target for a finger */
 .info-i[aria-expanded="true"] { background: var(--accent); color: #FFFFFF; border-color: var(--accent); opacity: 1; }
 .info-text { margin: 6px 0 0; font-size: 14px; line-height: 1.4; color: var(--muted); }

diff --git a/dark.css b/dark.css
@@ -291,6 +291,7 @@
 :where(:root.theme-dark) .after-upd-ck.is-done .ck-t { color: #B0DEC1; }
 :where(:root.theme-dark) .hero-i { color: #FFFFFF; border-color: rgba(51, 51, 51, .85); }
 :where(:root.theme-dark) .hero-i[aria-expanded="true"] { background: #1A1E26; border-color: #333333; }
+:where(:root.theme-dark) .after-upd-ck.is-done .ck-box { background: #1F6B3A; border-color: #59B57A; color: #FFFFFF; }
 /* hand-tuned */
 :where(:root.theme-dark) .focus-box.is-pressing { background: #3A1D1D; border-color: #6E2C2C; }
 :where(:root.theme-dark) .focus-why { color: #FF9C9C; }

diff --git a/sw.js b/sw.js
@@ -1,5 +1,5 @@
 /* Offline support: caches the page's own files only. It never stores form data. */
-var CACHE = 'huddle-v246';
+var CACHE = 'huddle-v247';
 var FILES = [
   './',
   'index.html',
